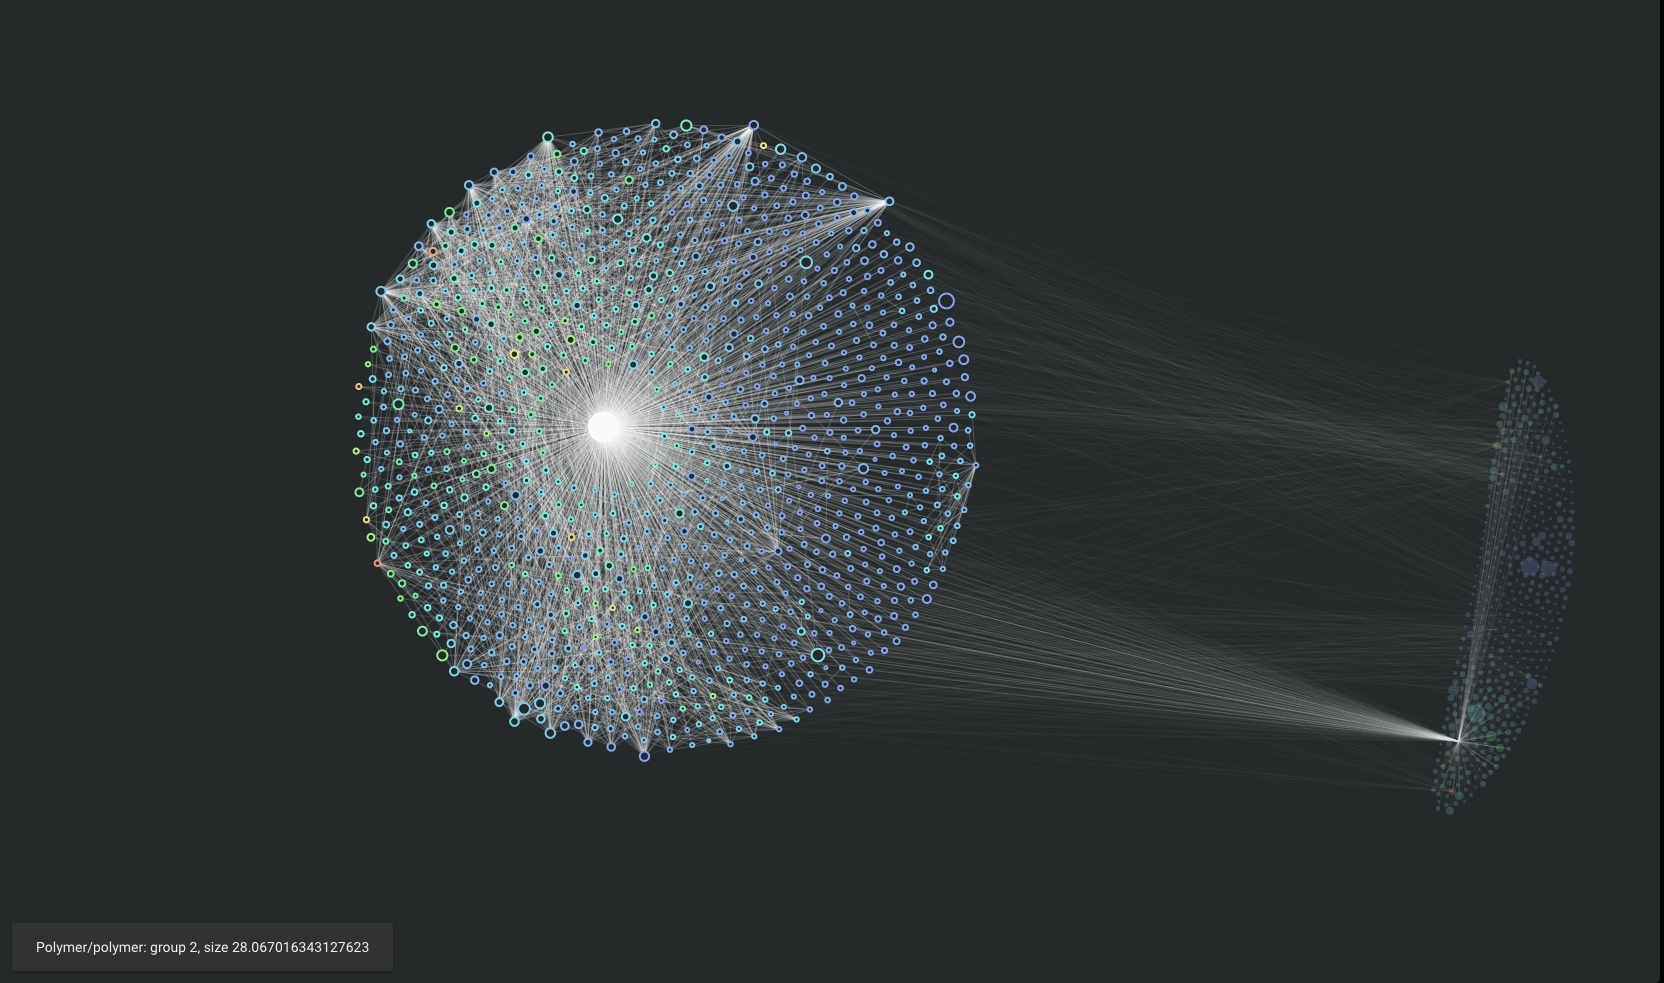
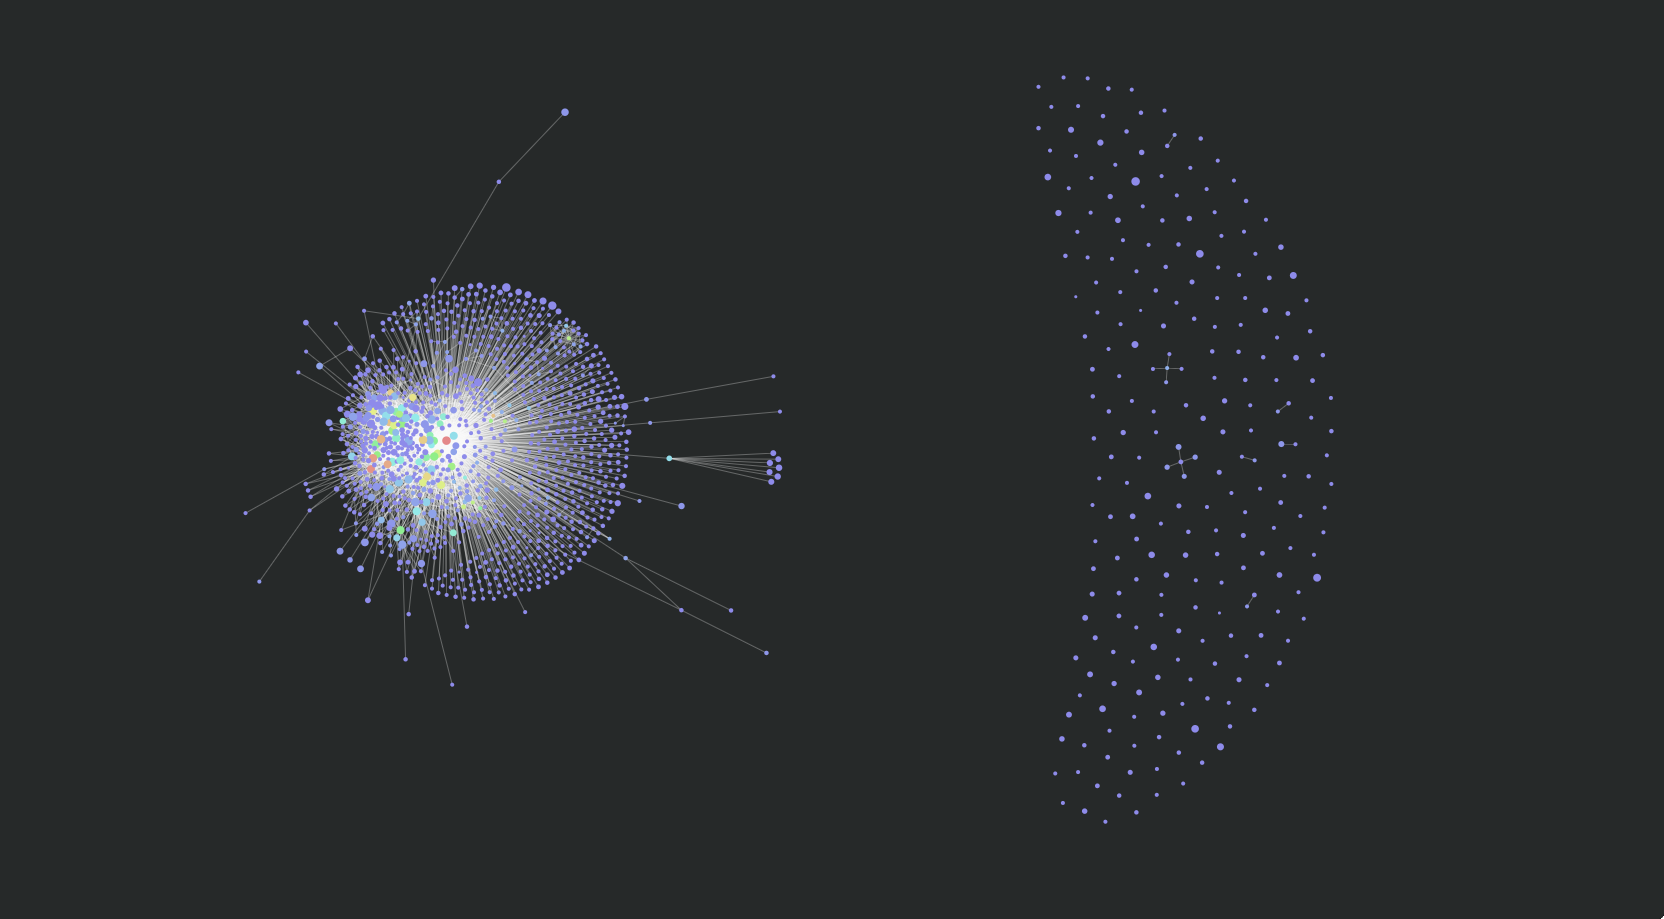
.

Changed region(s): [[0.1875, 0.1219, 0.9375, 0.8226], [0.0312, 0.9445, 0.2188, 0.975]]

diff --git a/d3-colony.html b/d3-colony.html
@@ -54,7 +54,7 @@ copied from https://github.com/hughsk/colony
 			static get properties() {
 				return {
 					/**
-					 * An array of nodes
+					 * An array of nodes. See README for the details of the format.
 					 */
 					nodes: {
 						type: Array,
@@ -112,7 +112,7 @@ copied from https://github.com/hughsk/colony
 						},
 					},
 					/**
-					 * Scale of the graph
+					 * The name property of the node in focus.
 					 */
 					selected: {
 						type: String,
@@ -159,6 +159,59 @@ copied from https://github.com/hughsk/colony
 
 				if (!self.loaded) {
 					return;
+				}
+
+				var dependencies = {};
+				for (var link of self.links) {
+					var source = dependencies[link.source];
+					if (!source) {
+						source = {
+							id: link.source,
+							children: [],
+							parents: [],
+						};
+						dependencies[link.source] = source;
+					}
+
+					var target = dependencies[link.target];
+					if (!target) {
+						target = {
+							id: link.target,
+							children: [],
+							parents: [],
+						};
+						dependencies[link.target] = target;
+					}
+
+					target.children.push(source);
+					source.parents.push(target);
+				}
+				var done;
+				do {
+					done = true;
+					for (var d of Object.values(dependencies)) {
+						if (d.descendants) {
+							continue;
+						}
+						if (d.children.length == 0) {
+							d.descendants = 0;
+						} else {
+							var descendants = 0;
+							for (var child of d.children) {
+								if (child.descendants == undefined) {
+									done = false;
+									break;
+								}
+								descendants += child.descendants + 1;
+							}
+							d.descendants = descendants;
+						}
+					}
+				} while (!done);
+				for (var i in self.nodes) {
+					var node = self.nodes[i];
+					var d = dependencies[i];
+					node.group = !d ? 0 : d.descendants;
 				}
 
 				/*
@@ -267,7 +320,7 @@ copied from https://github.com/hughsk/colony
 						//text.attr('transform', 'translate(' + d.x + ',' + d.y + ')')
 						//	.text(d.name)
 						//	.style('display', null)
-						self.$.message.text = d.name + ": group " + d.group + ", size " + d.size;
+						self.$.message.text = d.caption || d.name + ": group " + d.group + ", size " + d.size;
 						self.$.message.open();
 
 						d3.select(this)

diff --git a/index.html b/index.html
@@ -1,0 +1,26 @@
+<!doctype html>
+<!--
+@license
+Copyright (c) 2015 The Polymer Project Authors. All rights reserved.
+This code may only be used under the BSD style license found at http://polymer.github.io/LICENSE.txt
+The complete set of authors may be found at http://polymer.github.io/AUTHORS.txt
+The complete set of contributors may be found at http://polymer.github.io/CONTRIBUTORS.txt
+Code distributed by Google as part of the polymer project is also
+subject to an additional IP rights grant found at http://polymer.github.io/PATENTS.txt
+-->
+<html>
+<head>
+
+  <meta charset="utf-8">
+  <meta name="viewport" content="width=device-width, initial-scale=1.0">
+
+  <script src="../webcomponentsjs/webcomponents-lite.js"></script>
+  <link rel="import" href="../iron-component-page/iron-component-page.html">
+
+</head>
+<body>
+
+  <iron-component-page></iron-component-page>
+
+</body>
+</html>

diff --git a/README.md b/README.md
@@ -1,4 +1,4 @@
-[![Published on webcomponents.org](https://img.shields.io/badge/webcomponents.org-published-blue.svg)](https://www.webcomponents.org/element/renfeng/github-punchcard)
+[![Published on webcomponents.org](https://img.shields.io/badge/webcomponents.org-published-blue.svg)](https://www.webcomponents.org/element/renfeng/d3-colony)
 
 ## &lt;d3-colony&gt;
 
